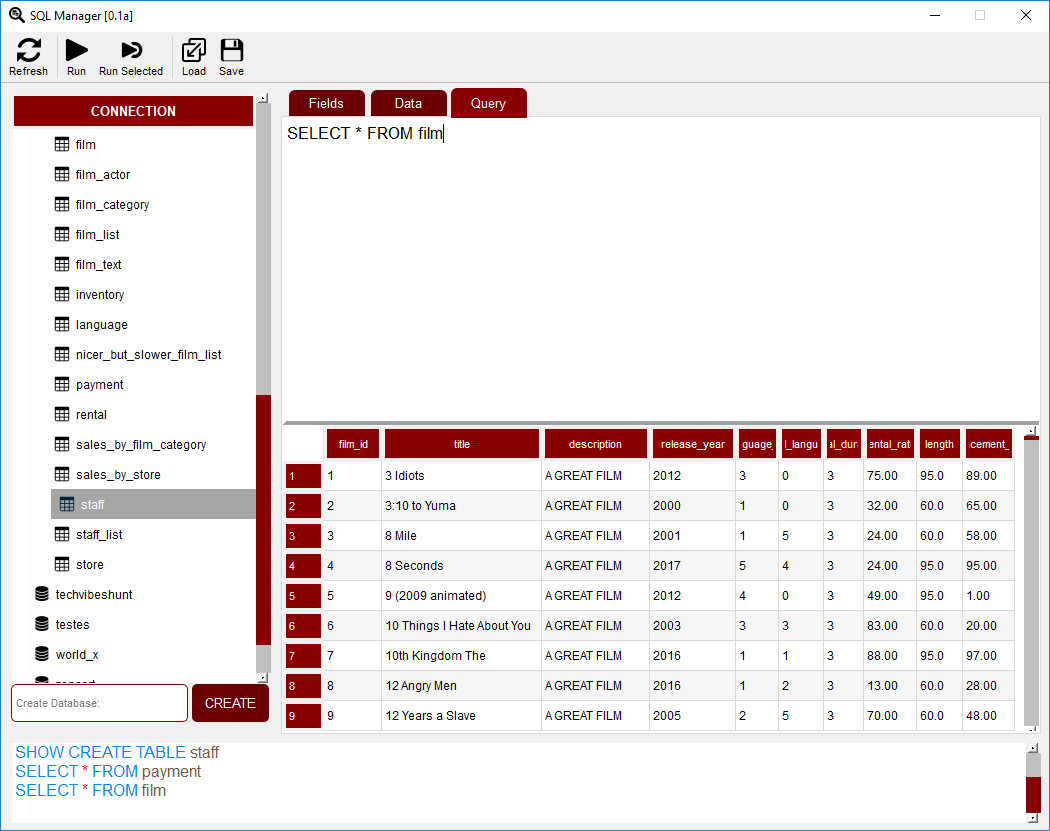
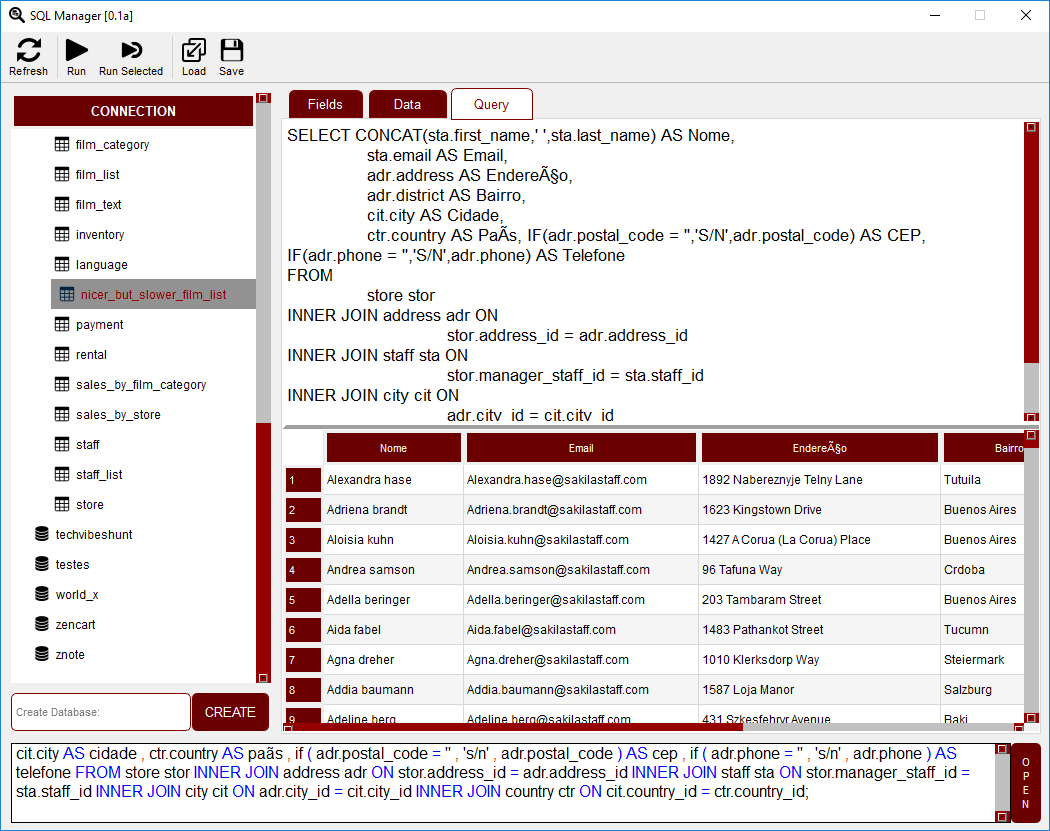
v2501_1506
Now you can expand console window to view all Logs
New color scheme

Changed region(s): [[0.0, 0.0903, 1.0, 0.9928], [0.0, 0.0903, 0.2438, 0.1805]]

diff --git a/Lib/Style.css b/Lib/Style.css
@@ -249,7 +249,7 @@ QPushButton{
 	border: 0px;
 	color: #FFFFFF;
 	padding: 5px;
-	min-height: 20px;
+	/* min-height: 20px; */
 	border-radius:5px;
 	background-color: #6A0000;	
 	color: #FFFFFF;

diff --git a/Lib/UI/SCRIPT/MainWindow.py b/Lib/UI/SCRIPT/MainWindow.py
@@ -14,6 +14,7 @@ class Ui_SQLMANAGER(object):
         SQLMANAGER.setWindowModality(QtCore.Qt.ApplicationModal)
         SQLMANAGER.resize(1048, 799)
         SQLMANAGER.setAutoFillBackground(False)
+        SQLMANAGER.setStyleSheet("")
         SQLMANAGER.setWindowFilePath("")
         SQLMANAGER.setInputMethodHints(QtCore.Qt.ImhNone)
         SQLMANAGER.setIconSize(QtCore.QSize(24, 24))
@@ -168,7 +169,7 @@ class Ui_SQLMANAGER(object):
         self.line.setObjectName("line")
         self.tabs.addTab(self._query, "")
         self.console_out = QtWidgets.QPlainTextEdit(self.centralwidget)
-        self.console_out.setGeometry(QtCore.QRect(10, 660, 1030, 80))
+        self.console_out.setGeometry(QtCore.QRect(10, 660, 1000, 80))
         font = QtGui.QFont()
         font.setFamily("Consolas")
         font.setPointSize(12)
@@ -179,7 +180,7 @@ class Ui_SQLMANAGER(object):
         font.setStrikeOut(False)
         font.setKerning(True)
         self.console_out.setFont(font)
-        self.console_out.setFrameShape(QtWidgets.QFrame.NoFrame)
+        self.console_out.setFrameShape(QtWidgets.QFrame.Box)
         self.console_out.setFrameShadow(QtWidgets.QFrame.Plain)
         self.console_out.setLineWidth(1)
         self.console_out.setMidLineWidth(0)
@@ -224,11 +225,20 @@ class Ui_SQLMANAGER(object):
         self.createdb_btn.setAutoExclusive(False)
         self.createdb_btn.setObjectName("createdb_btn")
         self.createdb_in = QtWidgets.QLineEdit(self.centralwidget)
-        self.createdb_in.setGeometry(QtCore.QRect(10, 610, 177, 38))
+        self.createdb_in.setGeometry(QtCore.QRect(10, 610, 180, 38))
         font = QtGui.QFont()
         font.setFamily("Consolas")
         self.createdb_in.setFont(font)
         self.createdb_in.setObjectName("createdb_in")
+        self.openConsole = QtWidgets.QPushButton(self.centralwidget)
+        self.openConsole.setGeometry(QtCore.QRect(1010, 660, 30, 80))
+        self.openConsole.setObjectName("openConsole")
+        self.tabs.raise_()
+        self.tables_out.raise_()
+        self.createdb_btn.raise_()
+        self.createdb_in.raise_()
+        self.openConsole.raise_()
+        self.console_out.raise_()
         SQLMANAGER.setCentralWidget(self.centralwidget)
         self.actionImport_Query = QtWidgets.QAction(SQLMANAGER)
         self.actionImport_Query.setShortcutContext(QtCore.Qt.WidgetWithChildrenShortcut)
@@ -284,11 +294,14 @@ class Ui_SQLMANAGER(object):
         self.result_out.setSortingEnabled(False)
         self.tabs.setTabText(self.tabs.indexOf(self._query), _translate("SQLMANAGER", "Query"))
         self.console_out.setToolTip(_translate("SQLMANAGER", "<html><head/><body><p><span style=\" font-weight:600;\">CONSOLE</span></p></body></html>"))
-        self.console_out.setPlaceholderText(_translate("SQLMANAGER", "CONSOLE"))
         self.tables_out.setToolTip(_translate("SQLMANAGER", "<html><head/><body><p><span style=\" font-size:10pt; font-weight:600;\">DATABASES AND TABLES</span></p></body></html>"))
         self.tables_out.headerItem().setText(0, _translate("SQLMANAGER", "CONNECTION"))
         self.createdb_btn.setText(_translate("SQLMANAGER", "CREATE"))
         self.createdb_in.setPlaceholderText(_translate("SQLMANAGER", "Create Database:"))
+        self.openConsole.setText(_translate("SQLMANAGER", "O\n"
+"P\n"
+"E\n"
+"N"))
         self.actionImport_Query.setText(_translate("SQLMANAGER", "Load SQL File"))
         self.actionImport_Query.setShortcut(_translate("SQLMANAGER", "Ctrl+W"))
         self.actionExport_Query.setText(_translate("SQLMANAGER", "Execute SQL File"))

diff --git a/Core/Manager.py b/Core/Manager.py
@@ -10,7 +10,6 @@ import mysql.connector as mysql #
 
 ################### PYQT MODULES ##############################################################################+
 from PyQt5              import QtCore                                                                          #
-from PyQt5.uic          import loadUi                                                                          #
 from PyQt5.QtGui        import QStandardItemModel,QStandardItem                                                #
 from PyQt5.QtWidgets    import (QApplication, QDialog,QFileDialog,QMainWindow,QStyleFactory,                   #
                    QAction,QToolBar,QTableWidget,QTableWidgetItem,QHeaderView,QTreeWidgetItem)                 #                                                                                #
@@ -26,6 +25,8 @@ _import,_export,_refresh,ui_db,ui_tb,ico_consult)           #
 
 from functools          import partial
 
+from Core.ConsoleHandler        import ConsoleWindow        #
+
 class ManagerWindow(QMainWindow,QToolBar,QTreeWidgetItem,QCoreApplication,Ui_SQLMANAGER,object):
     def __init__(self,hs,pt,us,ps,bfr, parent = None):
         super(ManagerWindow,self).__init__(parent)
@@ -34,6 +35,7 @@ class ManagerWindow(QMainWindow,QToolBar,QTreeWidgetItem,QCoreApplication,Ui_SQL
         self.add_tool_bar()
         self.setWindowIcon(QIcon(ico_consult))
         self.show()
+
 
         self.hs = hs
         self.pt = pt
@@ -50,6 +52,9 @@ class ManagerWindow(QMainWindow,QToolBar,QTreeWidgetItem,QCoreApplication,Ui_SQL
 
         self.tables_out.itemDoubleClicked.connect(self.ItemDoubleClicked)
         self.createdb_btn.clicked.connect(self.Create_DB)
+
+        self.openConsole.clicked.connect(self.OpenConsoleWindow)
+        self.openedConsole = False
 
     def ItemDoubleClicked   (self):         ## SINGLE CLICK HANDLER FOR QTreeWIDGET
         index = self.tables_out.currentIndex()
@@ -335,5 +340,16 @@ class ManagerWindow(QMainWindow,QToolBar,QTreeWidgetItem,QCoreApplication,Ui_SQL
                 finalQuery += "%s " %marrom_pat.format(w)
         
         return finalQuery.replace('\n','<br></br>')
+
+    def OpenConsoleWindow (self):
+        self.openedConsole = not self.openedConsole
+
+        if self.openedConsole == True:
+            self.console_out.setGeometry(10,5,1000,735)
+            self.openConsole.setText("C\nL\nO\nS\nE")
+        else:
+            self.console_out.setGeometry(10,660,1000,80)
+            self.console_out.verticalScrollBar().setValue(self.console_out.verticalScrollBar().maximum())
+            self.openConsole.setText("O\nP\nE\nN")
 
 # - - ######################################################################################################################### - - #

diff --git a/Lib/UI/SCRIPT/Console.py b/Lib/UI/SCRIPT/Console.py
@@ -1,0 +1,38 @@
+# -*- coding: utf-8 -*-
+
+# Form implementation generated from reading ui file '.\Lib\UI\LAYOUT\Console.ui'
+#
+# Created by: PyQt5 UI code generator 5.11.3
+#
+# WARNING! All changes made in this file will be lost!
+
+from PyQt5 import QtCore, QtGui, QtWidgets
+
+class Ui_Console(object):
+    def setupUi(self, Console):
+        Console.setObjectName("Console")
+        Console.resize(665, 503)
+        self.canvas = QtWidgets.QWidget(Console)
+        self.canvas.setObjectName("canvas")
+        self.console = QtWidgets.QTextBrowser(self.canvas)
+        self.console.setGeometry(QtCore.QRect(2, 2, 660, 500))
+        self.console.setObjectName("console")
+        Console.setCentralWidget(self.canvas)
+
+        self.retranslateUi(Console)
+        QtCore.QMetaObject.connectSlotsByName(Console)
+
+    def retranslateUi(self, Console):
+        _translate = QtCore.QCoreApplication.translate
+        Console.setWindowTitle(_translate("Console", "Console"))
+
+
+if __name__ == "__main__":
+    import sys
+    app = QtWidgets.QApplication(sys.argv)
+    Console = QtWidgets.QMainWindow()
+    ui = Ui_Console()
+    ui.setupUi(Console)
+    Console.show()
+    sys.exit(app.exec_())
+

diff --git a/Core/ConsoleHandler.py b/Core/ConsoleHandler.py
@@ -1,0 +1,15 @@
+from PyQt5.QtCore import pyqtSlot,QFile, QTextStream
+from PyQt5.QtWidgets import QApplication, QDialog,QMainWindow,QStyleFactory,QAction,QMenu
+from PyQt5.uic import loadUi
+from PyQt5 import QtGui
+
+from Lib.UI.SCRIPT.Console import Ui_Console
+
+class ConsoleWindow(QMainWindow,Ui_Console):
+    def __init__(self,text,parent = None):
+        super(ConsoleWindow,self).__init__(parent)
+        self.setupUi(self)
+        self.setFixedSize(self.size())
+        self.show()
+
+        self.console.setHtml(text)

diff --git a/Connector.py b/Connector.py
@@ -3,7 +3,6 @@ import mysql.connector as mysql
 
 from PyQt5.QtCore import pyqtSlot,QFile, QTextStream
 from PyQt5.QtWidgets import QApplication, QDialog,QMainWindow,QStyleFactory,QAction,QMenu
-from PyQt5.uic import loadUi
 from PyQt5 import QtGui
 
 from Core.Manager import ManagerWindow

diff --git a/README.md b/README.md
@@ -1,6 +1,6 @@
 <h1 align="center">
   <br>
-    <img src="src\Toolbar_Icons\ui_database.png" alt="Logo" width="100">
+    <img src="src\Toolbar_Icons\ui_database.png" alt="logo" width="100">
   <br>
   MYQT<br>
   MySQL Database Manager
@@ -10,8 +10,7 @@
 
 <h4 align="center">MySQL Querying Tool with QT Designer</h4>
 
-<img align="center" src="https://raw.githubusercontent.com/dwyl/repo-badges/master/highresPNGs/build-passing.png"    alt="Build: Passing" width="100"/>
-
+<img src="https://raw.githubusercontent.com/dwyl/repo-badges/master/highresPNGs/build-passing.png"    alt="Build: Passing" width="100"/></br>
 MYQT is an open source visual database design and querying tool for the MySQL database developed in python using the QT (Cute) framework for creating  interface, Developed by Fernando Moreira between 2018 - 2019
 
 # Interface Help
